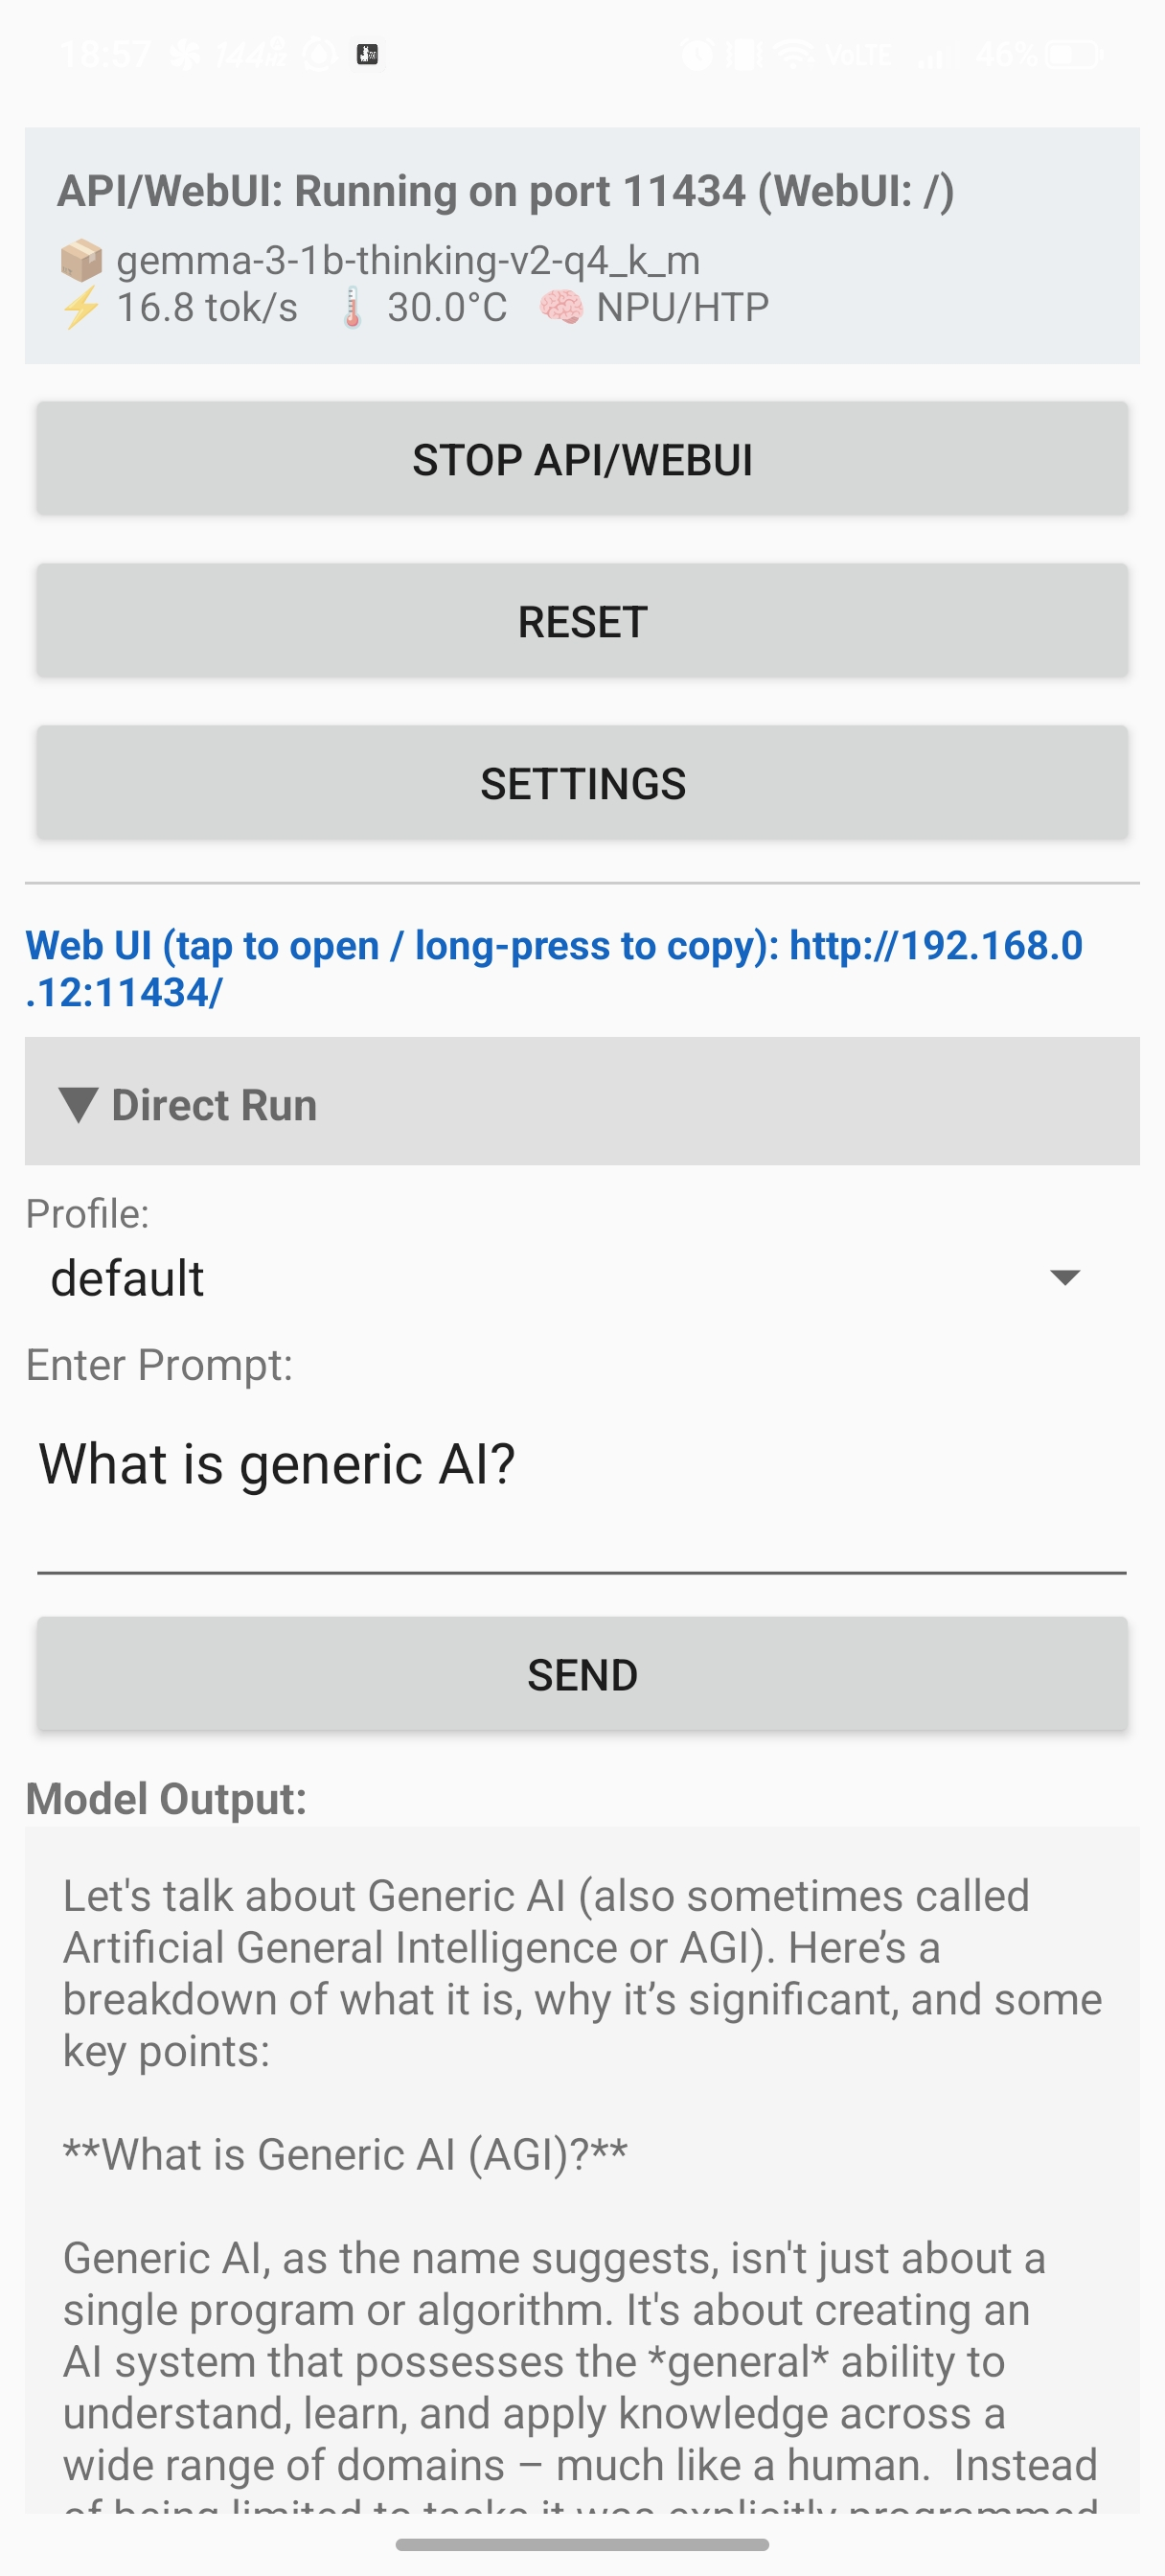
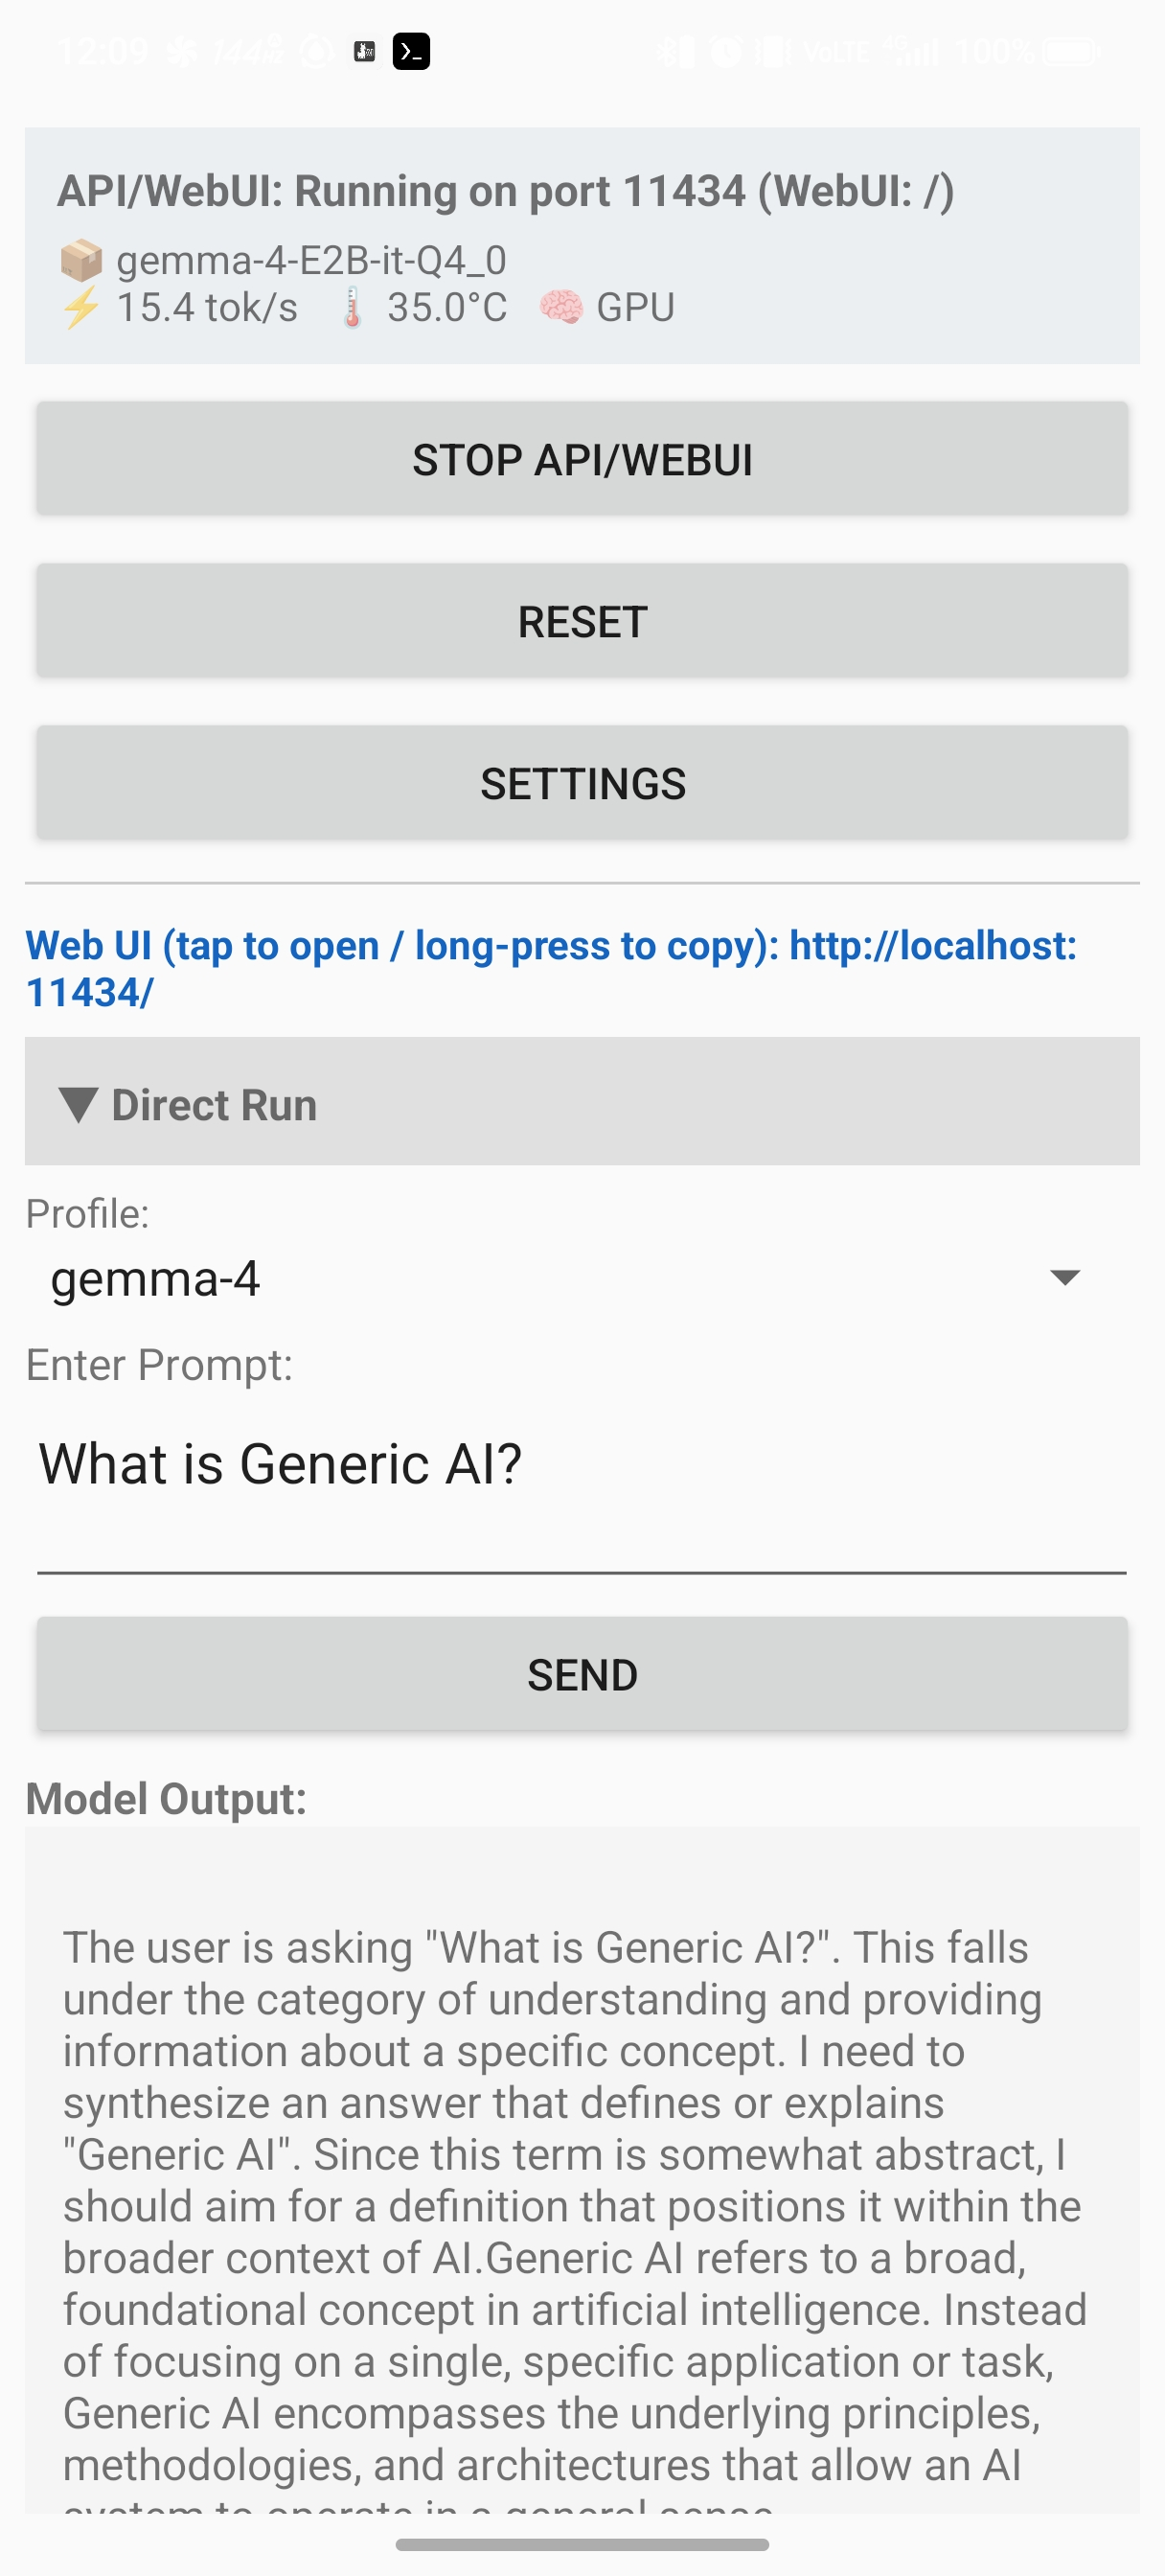
setup firebase deploy

diff --git a/public/llama-tester/manual-en.html b/public/llama-tester/manual-en.html
@@ -82,7 +82,7 @@
       <h3>Status Header (top of screen)</h3>
       <ul>
         <li><strong>API/WebUI status:</strong> Shows whether the API server is running and on which port.</li>
-        <li><strong>Speed, temperature, backend:</strong> Shows the last generation speed (tok/s), device temperature (°C), active compute backend (CPU / GPU / NPU), and the name of the loaded model.</li>
+        <li><strong>Speed, temperature, backend:</strong> Shows the last generation speed (tok/s), device temperature (°C), active compute backend (CPU / GPU), and the name of the loaded model.</li>
       </ul>
       <h3>Main Action Buttons</h3>
       <ul>
@@ -121,8 +121,8 @@
         <li><strong>Multimodal Projector (mmproj):</strong> Select or clear an mmproj (multimodal projector) file when using a multimodal model. Used based on the loaded model's vision/audio support.</li>
         <li><strong>Model Maintenance (MAINTAIN MODEL):</strong> Lists model files stored in the app, with options to switch to a different stored model or delete a selected file.</li>
         <li><strong>Search GGUF on Hugging Face:</strong> Opens the Hugging Face GGUF model search page in the browser.</li>
-        <li><strong>Compute Backend:</strong> Toggle GPU (OpenCL/Adreno) and NPU (Hexagon HTP) on or off independently. GPU and NPU are mutually exclusive — enabling one automatically disables the other. When both are off the model runs on CPU.</li>
-        <li><strong>Offload Layers (GPU/NPU):</strong> Set the number of layers to offload to the GPU or NPU using a slider. The maximum position means ALL available layers. The slider is disabled when both GPU and NPU are off (CPU mode).</li>
+        <li><strong>Compute Backend:</strong> Toggle GPU (OpenCL/Adreno) on or off. When it is off the model runs on CPU.</li>
+        <li><strong>Offload Layers (GPU):</strong> Set the number of layers to offload to the GPU using a slider. The maximum position means ALL available layers. The slider is disabled when GPU is off (CPU mode).</li>
         <li><strong>Model Parameters:</strong> Set generation parameters such as <code>n_ctx</code>, <code>n_threads</code>, <code>n_batch</code>, and temperature.</li>
         <li><strong>Output Settings:</strong> Toggle streaming output on/off. Enable Show Performance Metrics to append token counts, processing time, and speed to the output area after generation completes.</li>
         <li><strong>Prompt Template:</strong> Set System Prompt, Think on/off (chat-template-kwargs.enable_thinking), and custom chat template. When no custom template is set, the app first uses GGUF chat_template metadata and otherwise auto-selects by model family. A Bonsai fallback template is included.</li>
@@ -144,8 +144,8 @@
         <li><strong>Context Size (n_ctx):</strong> Number of tokens the model can process at once. Larger values handle longer contexts but use more memory.</li>
         <li><strong>Threads (n_threads):</strong> Number of CPU threads for inference. Adjust based on your device's core count.</li>
         <li><strong>Batch Size (n_batch):</strong> Number of tokens processed at once. Larger is faster but uses more memory.</li>
-        <li><strong>Compute Backend:</strong> Toggle GPU (OpenCL/Adreno) and NPU (Hexagon HTP) on or off. They are mutually exclusive. When both are off the model runs on CPU.</li>
-        <li><strong>Offload Layers (GPU/NPU):</strong> Set the number of layers to offload via a slider. The maximum position (ALL) targets all available layers. Disabled when both GPU and NPU are off.</li>
+        <li><strong>Compute Backend:</strong> Toggle GPU (OpenCL/Adreno) on or off. When it is off the model runs on CPU.</li>
+        <li><strong>Offload Layers (GPU):</strong> Set the number of layers to offload via a slider. The maximum position (ALL) targets all available layers. Disabled when GPU is off.</li>
         <li><strong>Temperature (temp):</strong> Controls output randomness. Lower is more deterministic, higher is more diverse.</li>
         <li><strong>Top-p:</strong> Select from tokens until cumulative probability reaches this value (nucleus sampling).</li>
         <li><strong>Top-k:</strong> Select from top k probability tokens.</li>

diff --git a/public/llama-tester/manual.html b/public/llama-tester/manual.html
@@ -86,7 +86,7 @@
       <h3>ステータスヘッダー（画面最上部）</h3>
       <ul>
         <li><strong>API/WebUI 状態:</strong> APIサーバーの動作状態（稼働中 / 停止中）とポート番号を表示します。</li>
-        <li><strong>速度・温度・バックエンド:</strong> 最後の生成の速度（tok/s）、デバイス温度（°C）、アクティブバックエンド（CPU / GPU / NPU）、ロード中のモデル名を表示します。</li>
+        <li><strong>速度・温度・バックエンド:</strong> 最後の生成の速度（tok/s）、デバイス温度（°C）、アクティブバックエンド（CPU / GPU）、ロード中のモデル名を表示します。</li>
       </ul>
       <h3>メイン操作ボタン</h3>
       <ul>
@@ -125,8 +125,8 @@
         <li><strong>マルチモーダルプロジェクタ（mmproj）:</strong> マルチモーダルモデルを使用する場合にmmproj（マルチモーダルプロジェクタ）ファイルを選択または削除できます。モデルの vision/audio 対応状況に応じて利用します。</li>
         <li><strong>モデル管理（MAINTAIN MODEL）:</strong> アプリ内に保存されたモデルファイルの一覧を表示し、別のモデルに切り替えるか選択したファイルを削除できます。</li>
         <li><strong>Hugging Face GGUF 検索:</strong> ブラウザで Hugging Face の GGUF モデル検索ページを開きます。</li>
-        <li><strong>コンピュートバックエンド:</strong> GPU（OpenCL/Adreno）と NPU（Hexagon HTP）の有効/無効をそれぞれ切り替えます。GPU と NPU は排他で、どちらか一方のみ有効にできます。両方オフの場合は CPU で実行します。</li>
-        <li><strong>オフロード層（GPU/NPU）:</strong> GPU または NPU にオフロードする層数をスライダーで設定します。最大値は全層（ALL）を意味します。GPU/NPU がどちらも無効の場合（CPU 実行）はスライダーが無効化されます。</li>
+        <li><strong>コンピュートバックエンド:</strong> GPU（OpenCL/Adreno）の有効/無効を切り替えます。オフの場合は CPU で実行します。</li>
+        <li><strong>オフロード層（GPU）:</strong> GPU にオフロードする層数をスライダーで設定します。最大値は全層（ALL）を意味します。GPU が無効の場合（CPU 実行）はスライダーが無効化されます。</li>
         <li><strong>モデルパラメータ:</strong> <code>n_ctx</code>、<code>n_threads</code>、<code>n_batch</code>、温度などの生成パラメータを設定します。</li>
         <li><strong>出力設定:</strong> ストリーミング出力の有効/無効を切り替えます。パフォーマンス指標の表示を有効にすると生成完了後にトークン数・処理時間・速度を出力欄に付記します。</li>
         <li><strong>プロンプトテンプレート:</strong> システムプロンプト、Think有効/無効（chat-template-kwargs.enable_thinking）、カスタムテンプレートを設定できます。カスタム未設定時はGGUFのchat_templateメタデータを優先し、必要に応じてモデルファミリーから自動選択されます。Bonsai系の既定テンプレートにも対応しています。</li>
@@ -148,8 +148,8 @@
         <li><strong>コンテキストサイズ (n_ctx):</strong> モデルが一度に処理できるトークン数です。大きいほど長い文脈を扱えますが、メモリ消費が増加します。</li>
         <li><strong>スレッド数 (n_threads):</strong> 推論に使用するCPUスレッド数です。端末のコア数に合わせて調整してください。</li>
         <li><strong>バッチサイズ (n_batch):</strong> 一度に処理するトークン数です。大きくすると高速ですがメモリを多く使用します。</li>
-        <li><strong>コンピュートバックエンド:</strong> GPU（OpenCL/Adreno）と NPU（Hexagon HTP）の有効/無効を切り替えます。GPU と NPU は排他です。両方オフの場合は CPU で実行します。</li>
-        <li><strong>オフロード層（GPU/NPU）:</strong> GPU または NPU にオフロードする層数をスライダーで設定します。最大値（ALL）は利用可能な全層を対象にします。GPU/NPU がどちらも無効（CPU 実行）の場合はスライダーが無効化されます。</li>
+        <li><strong>コンピュートバックエンド:</strong> GPU（OpenCL/Adreno）の有効/無効を切り替えます。オフの場合は CPU で実行します。</li>
+        <li><strong>オフロード層（GPU）:</strong> GPU にオフロードする層数をスライダーで設定します。最大値（ALL）は利用可能な全層を対象にします。GPU が無効（CPU 実行）の場合はスライダーが無効化されます。</li>
         <li><strong>温度 (temp):</strong> 出力のランダム性を制御します。0に近いほど決定的、高いほど多様な出力になります。</li>
         <li><strong>Top-p:</strong> 累積確率がこの値に達するまでのトークンから選択します（nucleus sampling）。</li>
         <li><strong>Top-k:</strong> 確率上位k個のトークンから選択します。</li>

diff --git a/public/index-en.html b/public/index-en.html
@@ -84,7 +84,7 @@
           <h3>Application menu</h3>
           <p>The following tools are currently available. Select a card to open its product page or demo.</p>
           <div id="apps" class="apps" style="margin-top:12px">
-            <a class="card" href="/llama-tester-en.html"><img src="/llama-tester/ic_launcher.png" alt="LLM AI Server with llama.cpp icon" class="card-icon"><h3>LLM AI Server with llama.cpp</h3><p>Validation tool combining GGUF local inference, GPU/NPU backend support, on-device API/WebUI, and MCP integration</p></a>
+            <a class="card" href="/llama-tester-en.html"><img src="/llama-tester/ic_launcher.png" alt="LLM AI Server with llama.cpp icon" class="card-icon"><h3>LLM AI Server with llama.cpp</h3><p>Validation tool combining GGUF local inference, GPU backend support, on-device API/WebUI, and MCP integration</p></a>
             <a class="card" href="/llama-chat-en.html"><h3>Dual AI Chat</h3><p>Chat app for Ollama-compatible APIs</p></a>
             <a class="card" href="/reversy-en.html"><h3>Dual AI Reversy</h3><p>Reversi app with independent Human / CPU / AI control for Black and White</p></a>
             <a class="card" href="/android-ci-en.html"><h3>Development / CI notes</h3><p>Android development and GitHub integration with Userland, Termux, and Copilot CLI</p></a>
@@ -97,7 +97,7 @@
       <div class="card">
         <h3>Latest experiment notes</h3>
         <ul>
-          <li>LLM AI Server with llama.cpp: updated screenshots to the latest JPEGs and fully revised the user manual to match the current app (collapsible UI, status header, Direct Run section, GPU/NPU compute backend, mmproj, MAINTAIN MODEL, and more)</li>
+          <li>LLM AI Server with llama.cpp: updated screenshots to the latest JPEGs and fully revised the user manual to match the current app (collapsible UI, status header, Direct Run section, GPU compute backend, mmproj, MAINTAIN MODEL, and more)</li>
           <li>Local LLM (GGUF) inference viewer: download GGUF and run actual inference inside the browser</li>
           <li>LLM AI Server with llama.cpp: refreshed the product page, manual, technical spec, and privacy policy (MCP / function calling, multimodal API, WebUI integration)</li>
           <li>Dual AI Reversy: added the product page, user manual, and bilingual privacy policy</li>

diff --git a/public/index.html b/public/index.html
@@ -84,7 +84,7 @@
           <h3>アプリケーションメニュー</h3>
           <p>以下は現在利用可能なツールです。クリックして詳細や実験ページへ移動できます。</p>
           <div id="apps" class="apps" style="margin-top:12px">
-            <a class="card" href="/llama-tester.html"><img src="/llama-tester/ic_launcher.png" alt="LLM AI Server with llama.cpp アイコン" class="card-icon"><h3>LLM AI Server with llama.cpp</h3><p>GGUF ローカル推論・GPU/NPU バックエンド対応・ローカル API / WebUI・MCP 連携をまとめた検証ツール</p></a>
+            <a class="card" href="/llama-tester.html"><img src="/llama-tester/ic_launcher.png" alt="LLM AI Server with llama.cpp アイコン" class="card-icon"><h3>LLM AI Server with llama.cpp</h3><p>GGUF ローカル推論・GPU バックエンド対応・ローカル API / WebUI・MCP 連携をまとめた検証ツール</p></a>
             <a class="card" href="/llama-chat.html"><h3>Dual AI Chat</h3><p>Ollama互換APIを使用したチャットアプリ</p></a>
             <a class="card" href="/reversy.html"><h3>Dual AI Reversy</h3><p>黒白を個別に Human / CPU / AI へ切り替えられるリバーシアプリ</p></a>
             <a class="card" href="/android-ci.html"><h3>開発/CI 解説</h3><p>Userland / Termux と Copilot CLI による Android 開発と GitHub 連携の構成</p></a>
@@ -97,7 +97,7 @@
       <div class="card">
         <h3>最新の実験ノート</h3>
         <ul>
-          <li>LLM AI Server with llama.cpp：スクリーンショットを最新の JPEG に差し替え、操作マニュアルを現行実装に合わせて全面改訂（折りたたみ式 UI・ステータスヘッダー・ダイレクト実行セクション・GPU/NPU バックエンド・mmproj・MAINTAIN MODEL 等を反映）</li>
+          <li>LLM AI Server with llama.cpp：スクリーンショットを最新の JPEG に差し替え、操作マニュアルを現行実装に合わせて全面改訂（折りたたみ式 UI・ステータスヘッダー・ダイレクト実行セクション・GPU バックエンド・mmproj・MAINTAIN MODEL 等を反映）</li>
           <li>ローカルLLM（GGUF）推論ビューア：GGUFをダウンロードしてブラウザ内で実推論</li>
           <li>LLM AI Server with llama.cpp：製品ページ・操作マニュアル・技術仕様・プライバシーポリシーを更新（MCP / Function Calling、multimodal API、WebUI連携を反映）</li>
           <li>Dual AI Reversy：製品ページ、操作マニュアル、日英併記の Privacy Policy を追加</li>

diff --git a/public/llama-tester-en.html b/public/llama-tester-en.html
@@ -72,7 +72,7 @@
         </figure>
         <figure>
           <img src="/llama-tester/sm102.jpg" alt="LLM AI Server with llama.cpp settings screen">
-          <figcaption>Settings screen for model URLs, local GGUF import, GPU/NPU backend selection, mmproj settings, and inference parameters.</figcaption>
+          <figcaption>Settings screen for model URLs, local GGUF import, GPU backend selection, mmproj settings, and inference parameters.</figcaption>
         </figure>
         <figure>
           <img src="/llama-tester/sm103.jpg" alt="LLM AI Server with llama.cpp template settings">
@@ -86,7 +86,7 @@
       <ul>
         <li><strong>On-device local inference</strong>: Runs GGUF models directly on Android with llama.cpp.</li>
         <li><strong>Flexible model loading</strong>: Supports downloadable model URLs and local <code>.gguf</code> imports.</li>
-        <li><strong>Deep inference controls</strong>: Adjust <code>n_ctx</code>, <code>n_threads</code>, compute backend (CPU / GPU / NPU), offload layer count, Top-p, Top-k, penalties, Mirostat, DRY, Think behavior, and custom chat templates.</li>
+        <li><strong>Deep inference controls</strong>: Adjust <code>n_ctx</code>, <code>n_threads</code>, compute backend (CPU / GPU), offload layer count, Top-p, Top-k, penalties, Mirostat, DRY, Think behavior, and custom chat templates.</li>
         <li><strong>Shared MCP / function-calling settings</strong>: Save MCP Config JSON and Function Definitions JSON separately from model profiles, then optionally enable them for the main prompt input, <code>/api/chat</code>, <code>/api/generate</code>, and <code>/v1/chat/completions</code>.</li>
         <li><strong>Built-in Ollama/OpenAI-compatible API and WebUI</strong>: Provides <code>/api/chat</code>, <code>/api/generate</code>, <code>/api/tags</code>, <code>/v1/chat/completions</code>, <code>/v1/models</code>, <code>/props</code>, and <code>/slots</code> on the same port; only one generation runs at a time, with a queue of up to 10 requests for up to 60 seconds.</li>
         <li><strong>Multimodal API inputs</strong>: <code>/api/chat</code> and <code>/v1/chat/completions</code> can accept <code>image_url</code> and <code>input_audio</code> when the loaded model supports vision/audio.</li>

diff --git a/public/llama-tester.html b/public/llama-tester.html
@@ -72,7 +72,7 @@
         </figure>
         <figure>
           <img src="/llama-tester/sm102.jpg" alt="LLM AI Server with llama.cpp の設定画面">
-          <figcaption>設定画面。モデル URL / ローカル GGUF 取り込み、GPU/NPU バックエンド選択、mmproj 設定、推論パラメータを調整できます。</figcaption>
+          <figcaption>設定画面。モデル URL / ローカル GGUF 取り込み、GPU バックエンド選択、mmproj 設定、推論パラメータを調整できます。</figcaption>
         </figure>
         <figure>
           <img src="/llama-tester/sm103.jpg" alt="LLM AI Server with llama.cpp のテンプレート設定">
@@ -86,7 +86,7 @@
       <ul>
         <li><strong>端末内でのローカル推論</strong>: llama.cpp を使って Android 端末上で GGUF モデルを直接実行します。</li>
         <li><strong>モデル導入の自由度</strong>: HTTP/HTTPS のモデル URL 指定と、ローカル端末からの <code>.gguf</code> 取り込みの両方に対応しています。</li>
-        <li><strong>詳細な推論制御</strong>: <code>n_ctx</code>、<code>n_threads</code>、コンピュートバックエンド（CPU / GPU / NPU）、オフロード層数、Top-p、Top-k、Penalty、Mirostat、DRY、Think、custom chat template まで調整できます。</li>
+        <li><strong>詳細な推論制御</strong>: <code>n_ctx</code>、<code>n_threads</code>、コンピュートバックエンド（CPU / GPU）、オフロード層数、Top-p、Top-k、Penalty、Mirostat、DRY、Think、custom chat template まで調整できます。</li>
         <li><strong>共有 MCP / Function Calling 設定</strong>: モデル別プロファイルとは別に MCP Config JSON と Function Definitions JSON を保存でき、外部利用スイッチを有効にするとメイン画面、<code>/api/chat</code>、<code>/api/generate</code>、<code>/v1/chat/completions</code> でも共通利用されます。</li>
         <li><strong>内蔵 Ollama/OpenAI 互換 API と WebUI</strong>: <code>/api/chat</code>、<code>/api/generate</code>、<code>/api/tags</code>、<code>/v1/chat/completions</code>、<code>/v1/models</code>、<code>/props</code>、<code>/slots</code> を同じポートで提供し、同時生成は 1 件、待機キューは最大 10 件・最大 60 秒です。</li>
         <li><strong>マルチモーダル API 入力</strong>: <code>/api/chat</code> と <code>/v1/chat/completions</code> では <code>image_url</code> と <code>input_audio</code> を扱え、ロード済みモデルの vision/audio 対応状況に応じて利用できます。</li>